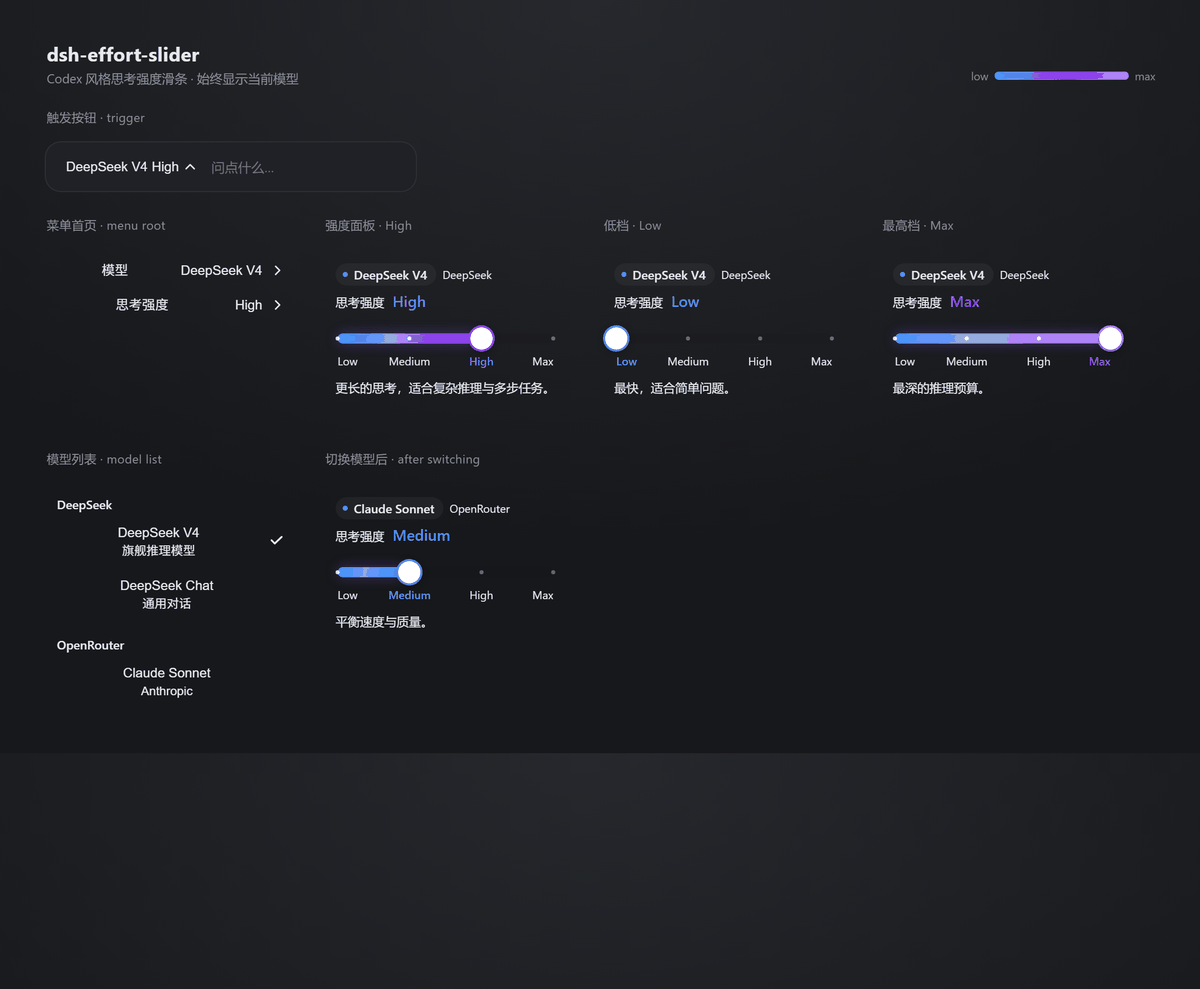
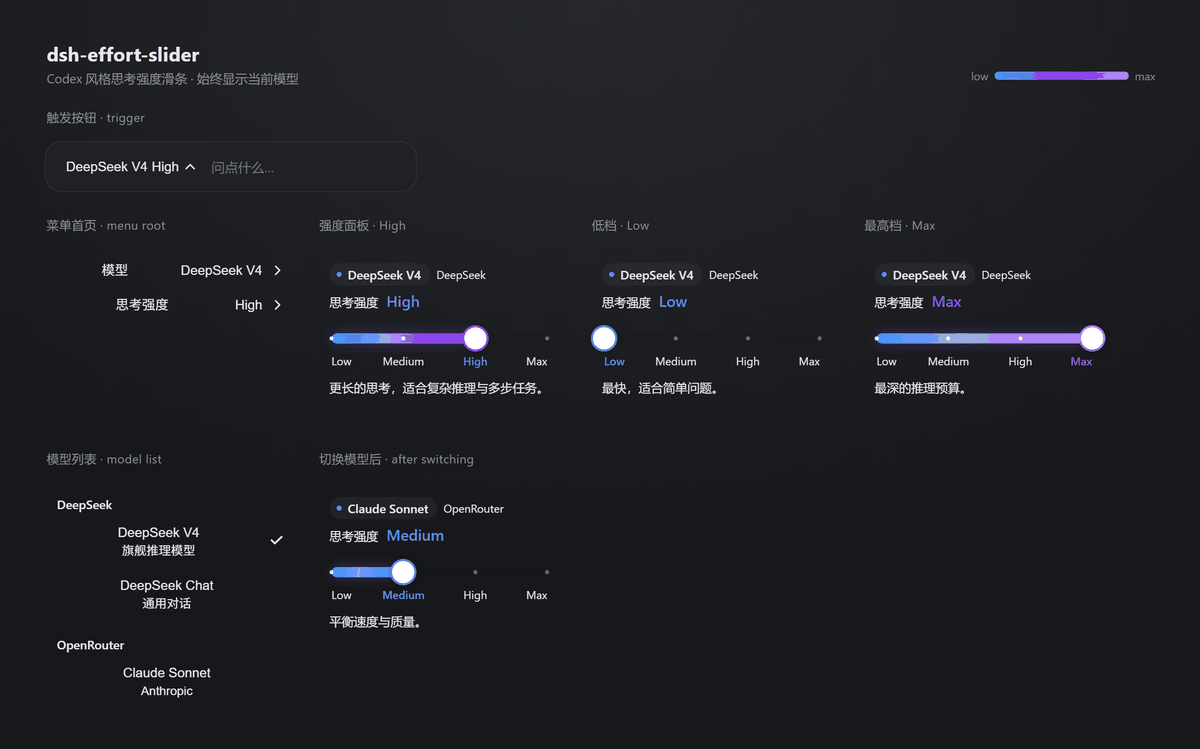
docs: put all four effort panes on one row in the preview
The pane strip previously wrapped onto two rows, so the Low and switched-model
panes were cut off at the bottom of the screenshot. Tightening the column gap
keeps them side by side and the image now ends right below the last row.

diff --git a/README.md b/README.md
@@ -71,7 +71,7 @@ dsh plugin --profile web add ./dsh-effort-slider
 ```sh
 node tests/build-preview.mjs          # writes .preview/preview.html
 node tests/measure-preview.mjs        # optional: prints geometry, fails on ragged layout
-# then screenshot .preview/preview.html at 1180x1000, device scale 2
+# then screenshot .preview/preview.html at 1180x760, device scale 2
 ```
 
 So if a colour or spacing value changes, the README image can be regenerated rather than silently going stale.
@@ -171,7 +171,7 @@ dsh plugin --profile web add ./dsh-effort-slider
 ```sh
 node tests/build-preview.mjs          # 生成 .preview/preview.html
 node tests/measure-preview.mjs        # 可选：打印几何信息，布局参差时报错
-# 再以 1180x1000、device scale 2 截图
+# 再以 1180x760、device scale 2 截图
 ```
 
 所以改了颜色或间距，可以直接重生成配图，而不是让它悄悄过期。
